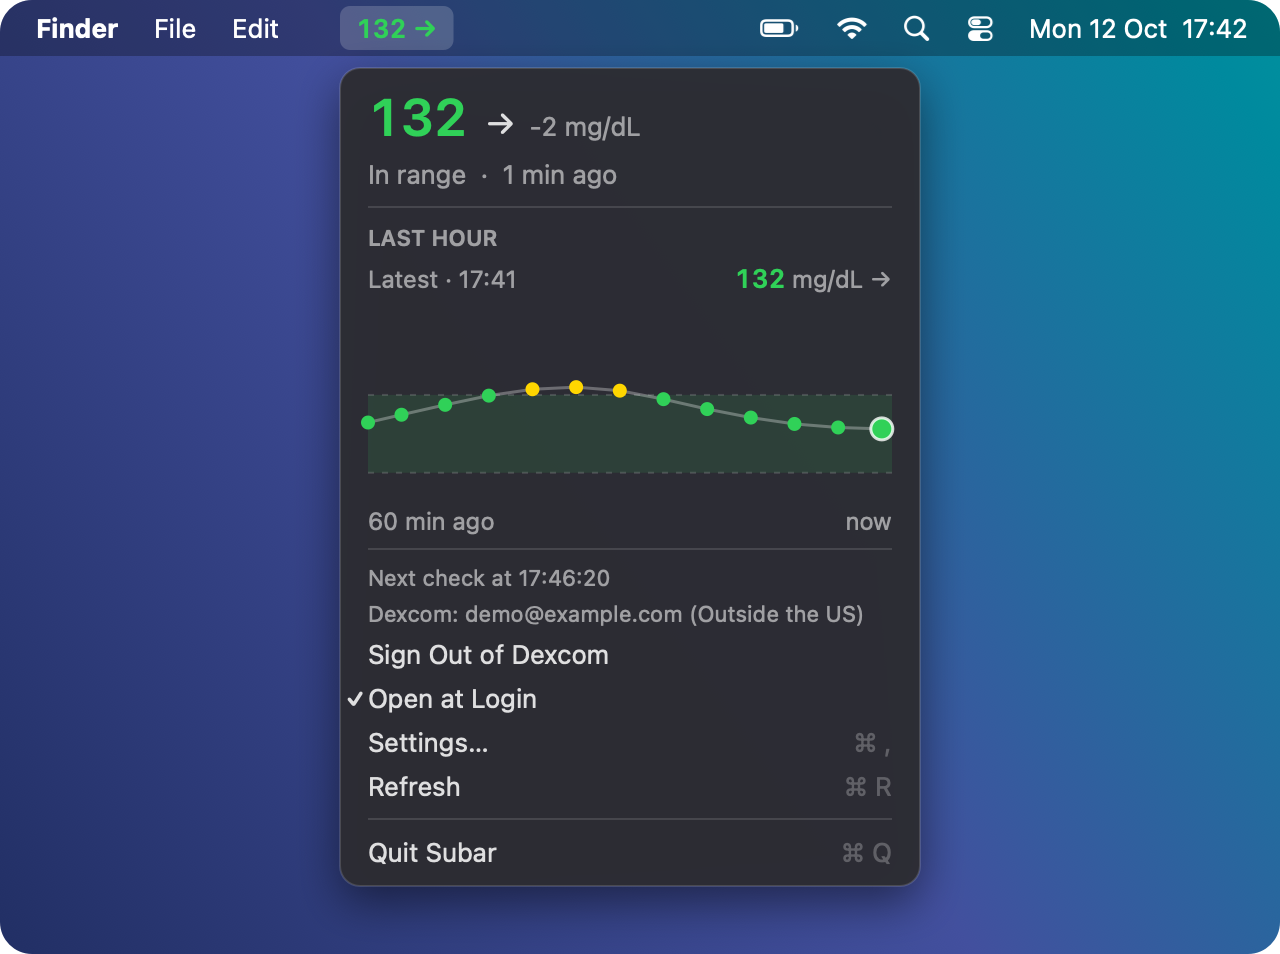
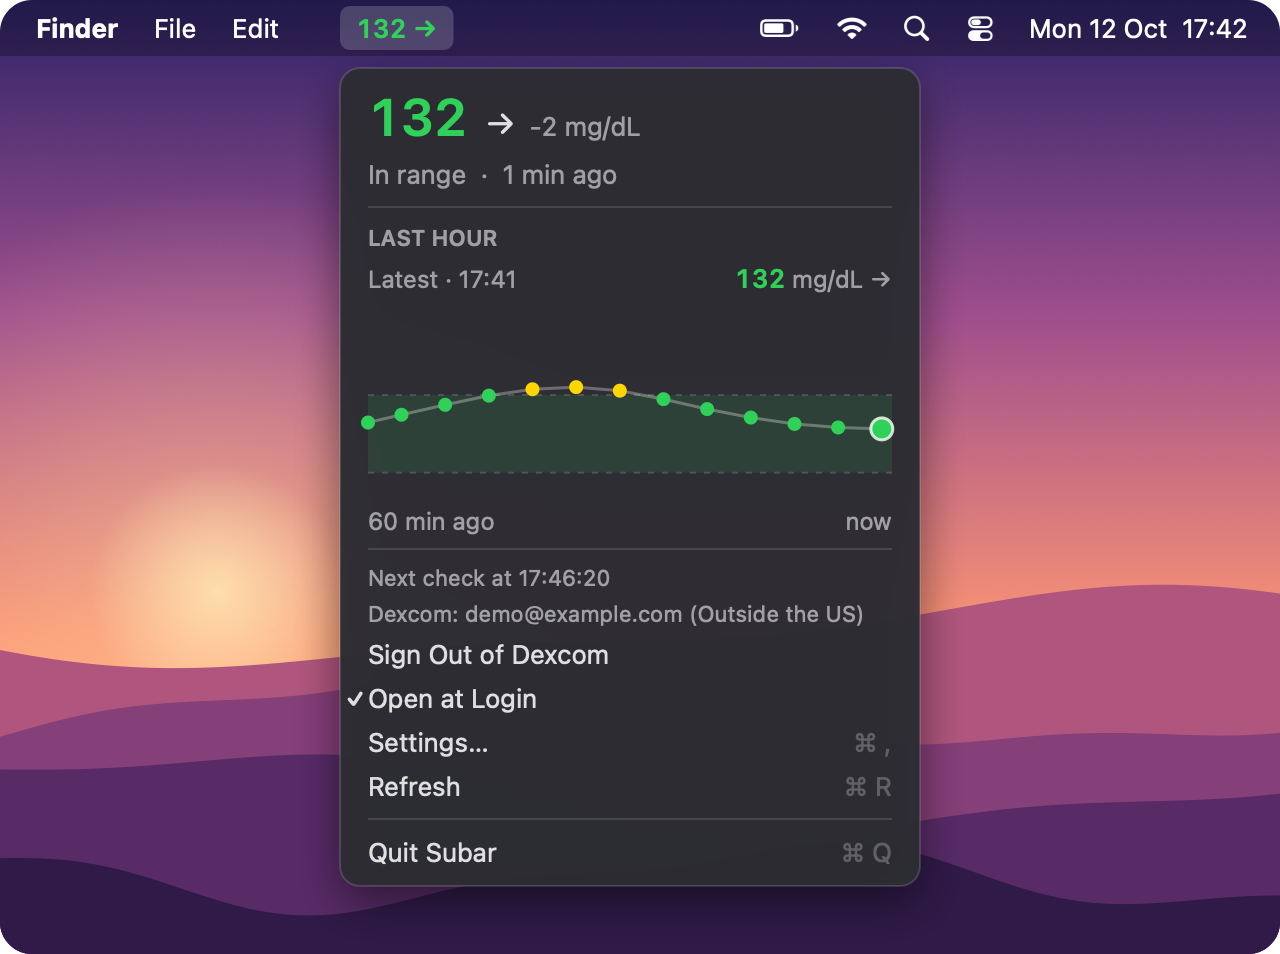
README images: dusk wallpaper, add menu bar close-up

diff --git a/README.md b/README.md
@@ -10,6 +10,8 @@
 ![macOS 12+](https://img.shields.io/badge/macOS-12%2B-1f2937)
 [![MIT license](https://img.shields.io/badge/license-MIT-1f2937)](LICENSE)
 
+<img src="docs/menubar.png" width="640" alt="Close-up of the menu bar with Subar showing 132 and a steady arrow in green">
+
 <img src="docs/menu.png" width="640" alt="Subar in the menu bar with its menu open: 132 mg/dL, in range, and a graph of the last hour">
 
 </div>
